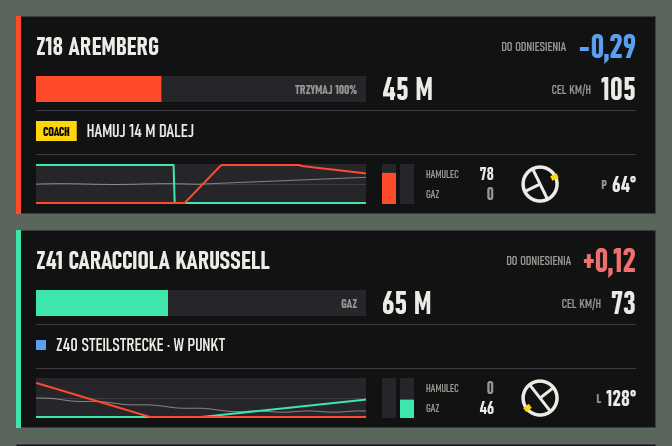
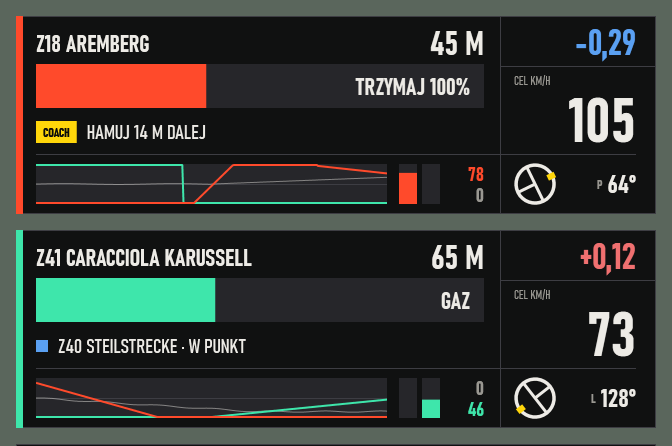
Overlay: a layout made for a glance
Same window size, used differently. The countdown bar is the main thing
(448 x 44 instead of 330 x 26) with the word in it at 24 pt; the time
against the reference and the target speed stand in a fixed column on
the right in the largest figures of the panel; metres, word, time and
speed sit next to each other, and nothing moves between corners. The
pedals and steering strip follows the same two columns.

diff --git a/plugin/src/OverlayPainter.cs b/plugin/src/OverlayPainter.cs
@@ -1,5 +1,12 @@
 // Draws the in-game overlay from a CoachState. Kept apart from the window so the same
 // drawing can be rendered to a picture by the preview tool. WPF, C# 5 syntax.
+//
+// The layout is made for a glance of a fraction of a second:
+//   - on the left the countdown bar, as wide and tall as the room allows; its colour and its
+//     length are read without looking straight at it, the word inside says what to do;
+//   - on the right a column that never moves: the time against the reference lap on top, the
+//     speed to carry through the corner under it, both in the largest figures on the panel;
+//   - everything stays in its place from corner to corner, so the eye learns where to land.
 using System;
 using System.Globalization;
 using System.Windows;
@@ -12,11 +19,15 @@ namespace SimCoach
         public const double Width = 640, Height = 138, InputsHeight = 60;
         /// <summary>The height of the overlay, with or without the inputs strip.</summary>
         public static double HeightFor(bool inputs) { return Height + (inputs ? InputsHeight : 0); }
-        private const double CapHeight = 0.71; // capitals of this typeface, as a share of the font size
 
-        private static readonly Brush Panel = Frozen(Color.FromArgb(232, 10, 10, 11));
+        private const double CapHeight = 0.71; // capitals of this typeface, as a share of the font size
+        // the two columns: the bar and its texts end at LeftEnd, the figures column starts after the divider
+        private const double Pad = 20, LeftEnd = 468, Divider = 484, RightEnd = Width - Pad;
+
+        private static readonly Brush Panel = Frozen(Color.FromArgb(236, 10, 10, 11));
         private static readonly Brush Line = Frozen(Color.FromRgb(0x3d, 0x3d, 0x43));
         private static readonly Brush Track = Frozen(Color.FromRgb(0x26, 0x26, 0x2a));
+        private static readonly Brush Idle = Frozen(Color.FromRgb(0x19, 0x19, 0x1c));
         private static readonly Brush Ink = Frozen(Color.FromRgb(0xed, 0xeb, 0xe6));
         private static readonly Brush Muted = Frozen(Color.FromRgb(0x9a, 0x98, 0x92));
         private static readonly Brush Yellow = Frozen(Color.FromRgb(0xff, 0xd6, 0x0a));
@@ -29,8 +40,23 @@ namespace SimCoach
         private static readonly FontFamily Family = new FontFamily("Bahnschrift, Segoe UI");
         private static readonly Typeface Regular = new Typeface(Family, FontStyles.Normal, FontWeights.Normal, FontStretches.Condensed);
         private static readonly Typeface Bold = new Typeface(Family, FontStyles.Normal, FontWeights.Bold, FontStretches.Condensed);
+        private static readonly Pen GasPen = FrozenPen(Color.FromRgb(0x3e, 0xe6, 0xab), 2);
+        private static readonly Pen BrakePen = FrozenPen(Color.FromRgb(0xff, 0x4a, 0x2b), 2);
+        private static readonly Pen SteerPen = FrozenPen(Color.FromArgb(120, 0xed, 0xeb, 0xe6), 1);
+        private static readonly Pen WheelPen = FrozenPen(Color.FromRgb(0xed, 0xeb, 0xe6), 3.5);
+        private static readonly Pen SpokePen = FrozenPen(Color.FromRgb(0xed, 0xeb, 0xe6), 3);
 
         private static Brush Frozen(Color c) { var b = new SolidColorBrush(c); b.Freeze(); return b; }
+
+        private static Pen FrozenPen(Color c, double width)
+        {
+            var p = new Pen(Frozen(c), width);
+            p.LineJoin = PenLineJoin.Round;
+            p.Freeze();
+            return p;
+        }
+
+        private static double Clamp(double v, double lo, double hi) { return v < lo ? lo : v > hi ? hi : v; }
 
         /// <summary>
         /// One line of text with the middle of its capitals on yMiddle (so it sits truly centred
@@ -63,57 +89,29 @@ namespace SimCoach
 
         private static void Coach(DrawingContext dc, CoachState st, double dip, double total)
         {
-            const double W = Width, H = Height, pad = 20;
-            if (st == null || !st.Active) { Put(dc, dip, "SIMCOACH · POZA TOREM Z PLANU", 16, Muted, false, pad, H / 2, 0, 0); return; }
+            const double H = Height;
+            if (st == null || !st.Active) { Put(dc, dip, "SIMCOACH · POZA TOREM Z PLANU", 18, Muted, false, Pad, H / 2, 0, 0); return; }
 
             bool flash = st.BrakeNow || st.GasNow || st.LiftNow;
             // one colour per thing to do: yellow braking point ahead, red braking, white lift, green throttle
             Brush doing = st.BrakeNow || st.Phase == 3 ? Brake : st.GasNow || st.Phase == 2 ? Gas : st.LiftNow || st.Phase == 4 ? Ink : st.Phase == 1 ? Yellow : null;
-            dc.DrawRectangle(doing ?? Line, null, new Rect(0, 0, 5, total));
-            // row 1: the corner, and the time against the reference lap
-            const double y1 = 30;
-            Put(dc, dip, st.Corner.Length > 0 ? st.Corner : "—", 26, Ink, true, pad, y1, 0, 380);
-            if (double.IsNaN(st.Delta)) Put(dc, dip, "BEZ POMIARU", 13, Muted, false, W - pad, y1, 1, 0);
-            else
-            {
-                double w = Put(dc, dip, CoachEngine.Signed(st.Delta, "0.00"), 34, Math.Abs(st.Delta) < 0.005 ? Ink : st.Delta < 0 ? Gain : Loss, true, W - pad, y1, 1, 0);
-                Put(dc, dip, "DO ODNIESIENIA", 13, Muted, false, W - pad - w - 12, y1, 1, 0);
-            }
-
-            // row 2: the way to the braking point, then to the throttle point, as a bar that
-            // runs out at the point. The word at its end says which of the two it is.
-            const double y2 = 73, barX = pad, barW = 330, barH = 26;
-            Rect bar = new Rect(barX, y2 - barH / 2, barW, barH);
-            dc.DrawRectangle(Track, null, bar);
+            dc.DrawRectangle(doing ?? Line, null, new Rect(0, 0, 7, total));
             bool counting = st.Phase != 0;
-            if (flash)
-            {
-                dc.DrawRectangle(doing, null, bar);
-                Put(dc, dip, st.BrakeNow ? "HAMUJ" : st.LiftNow ? "ODPUŚĆ GAZ" : "GAZ", 22, Black, true, barX + barW / 2, y2, 0.5, 0);
-            }
-            else if (counting)
-            {
-                Rect fill = new Rect(barX, bar.Y, Math.Max(2, barW * st.Progress), barH);
-                dc.DrawRectangle(doing, null, fill);
-                // the word sits on the dark track, and turns dark where the fill still covers it;
-                // with it, how hard to press: the plan's peak pedal pressure
-                string pressure = st.Pressure > 0 ? " " + Math.Round(st.Pressure).ToString(CultureInfo.InvariantCulture) + "%" : "";
-                string word = st.Phase == 1 ? "HAMULEC" + pressure : st.Phase == 3 ? "TRZYMAJ" + pressure : st.Phase == 4 ? "ODPUŚĆ GAZ" : "GAZ";
-                Put(dc, dip, word, 13, Muted, true, barX + barW - 9, y2, 1, 0);
-                dc.PushClip(new RectangleGeometry(fill));
-                Put(dc, dip, word, 13, Black, true, barX + barW - 9, y2, 1, 0);
-                dc.Pop();
-                // where the reference lap braked: the plan asks to hold on past this notch
-                if (!double.IsNaN(st.Mark))
-                {
-                    double mx = Math.Round(barX + barW * st.Mark);
-                    dc.DrawRectangle(st.Progress > st.Mark ? Black : Muted, null, new Rect(mx - 1, bar.Y, 2, barH));
-                    dc.DrawRectangle(Ink, null, new Rect(mx - 1, bar.Y - 5, 2, 4));
-                }
-            }
 
-            else if (st.Flat) Put(dc, dip, "PEŁNY GAZ", 13, Gas, true, barX + 10, y2, 0, 0); // nothing to count down to: this one is flat out
+            // ---- right: the figures, always in the same two cells ----
+            const double cut = 50; // where the column is split: time above, speed below
+            dc.DrawRectangle(Line, null, new Rect(Divider, 0, 1, H));
+            dc.DrawRectangle(Line, null, new Rect(Divider, cut, Width - Divider, 1));
+            if (double.IsNaN(st.Delta)) Put(dc, dip, "BEZ POMIARU", 13, Muted, false, RightEnd, cut / 2 + 1, 1, 0);
+            else Put(dc, dip, CoachEngine.Signed(st.Delta, "0.00"), 36, Math.Abs(st.Delta) < 0.005 ? Ink : st.Delta < 0 ? Gain : Loss, true, RightEnd, cut / 2 + 1, 1, 0);
+            Put(dc, dip, "CEL KM/H", 12, Muted, false, Divider + 14, cut + 15, 0, 0);
+            if (!double.IsNaN(st.TargetSpeed))
+                Put(dc, dip, Math.Round(st.TargetSpeed).ToString(CultureInfo.InvariantCulture), 62, Ink, true, RightEnd, cut + 54, 1, 0);
+            else Put(dc, dip, "—", 40, Line, true, RightEnd, cut + 54, 1, 0);
 
+            // ---- left, row 1: the corner, and how far the point being counted down to is ----
+            const double y1 = 27;
+            double metresW = 0;
             if (!flash && !double.IsNaN(st.ToCorner) && st.ToCorner > 0)
             {
                 // the last metres to the throttle point count one by one; a braking point comes up too fast for that
@@ -121,95 +119,104 @@ namespace SimCoach
                 string metres = st.ToCorner >= 1000
                     ? (st.ToCorner / 1000).ToString("0.0", CultureInfo.InvariantCulture).Replace('.', ',') + " KM"
                     : (Math.Round(st.ToCorner / unit) * unit).ToString(CultureInfo.InvariantCulture) + " M";
-                Put(dc, dip, metres, counting ? 32 : 22, counting ? Ink : Muted, counting, barX + barW + 16, y2, 0, 0);
+                metresW = Put(dc, dip, metres, counting ? 34 : 24, counting ? Ink : Muted, counting, LeftEnd, y1, 1, 0) + 14;
             }
-            if (!double.IsNaN(st.TargetSpeed))
-            {
-                double w = Put(dc, dip, Math.Round(st.TargetSpeed).ToString(CultureInfo.InvariantCulture), 32, Ink, true, W - pad, y2, 1, 0);
-                Put(dc, dip, "CEL KM/H", 13, Muted, false, W - pad - w - 10, y2, 1, 0);
-            }
+            Put(dc, dip, st.Corner.Length > 0 ? st.Corner : "—", 24, Ink, true, Pad, y1, 0, LeftEnd - Pad - metresW);
 
-            // row 3: the coach's note for this corner, or the verdict on the last one
-            const double y3 = 115;
-            dc.DrawRectangle(Line, null, new Rect(pad, 94, W - 2 * pad, 1));
+            // ---- left, row 2: the bar. It is full at the start of the countdown and runs out at
+            // the point; the word inside says which point it is, and how hard to brake. ----
+            const double barY = 48, barH = 44, y2 = barY + barH / 2, barW = LeftEnd - Pad;
+            Rect bar = new Rect(Pad, barY, barW, barH);
+            // (between corners the empty bar keeps its place, but steps back)
+            dc.DrawRectangle(flash || counting ? Track : Idle, null, bar);
+            if (flash)
+            {
+                dc.DrawRectangle(doing, null, bar);
+                Put(dc, dip, st.BrakeNow ? "HAMUJ" : st.LiftNow ? "ODPUŚĆ GAZ" : "GAZ", 32, Black, true, Pad + barW / 2, y2, 0.5, 0);
+            }
+            else if (counting)
+            {
+                Rect fill = new Rect(Pad, barY, Math.Max(3, barW * st.Progress), barH);
+                dc.DrawRectangle(doing, null, fill);
+                string pressure = st.Pressure > 0 ? " " + Math.Round(st.Pressure).ToString(CultureInfo.InvariantCulture) + "%" : "";
+                string word = st.Phase == 1 ? "HAMULEC" + pressure : st.Phase == 3 ? "TRZYMAJ" + pressure : st.Phase == 4 ? "ODPUŚĆ GAZ" : "GAZ";
+                // At the end the colour runs out towards, next to the metres above it and the
+                // figures beside it: light on the dark track, dark while the colour still covers it.
+                Put(dc, dip, word, 24, Ink, true, LeftEnd - 14, y2, 1, 0);
+                dc.PushClip(new RectangleGeometry(fill));
+                Put(dc, dip, word, 24, Black, true, LeftEnd - 14, y2, 1, 0);
+                dc.Pop();
+                // where the reference lap braked: the plan asks to hold on past this notch
+                if (!double.IsNaN(st.Mark))
+                {
+                    double mx = Math.Round(Pad + barW * st.Mark);
+                    dc.DrawRectangle(st.Progress > st.Mark ? Black : Muted, null, new Rect(mx - 1.5, barY, 3, barH));
+                    dc.DrawRectangle(Ink, null, new Rect(mx - 1.5, barY - 6, 3, 5));
+                }
+            }
+            else if (st.Flat) Put(dc, dip, "PEŁNY GAZ", 24, Gas, true, LeftEnd - 14, y2, 1, 0); // nothing to count down to: this one is flat out
+
+            // ---- left, row 3: the coach's note for this corner, or the verdict on the last one ----
+            const double y3 = 116;
             if (st.Message.Length == 0) return;
-            double x = pad;
+            double x = Pad;
             if (st.MessageKind == 1)
             {
                 var tag = new FormattedText("COACH", CultureInfo.InvariantCulture, FlowDirection.LeftToRight, Bold, 13, Black, dip);
-                dc.DrawRectangle(Yellow, null, new Rect(x, y3 - 10, tag.WidthIncludingTrailingWhitespace + 14, 20));
+                dc.DrawRectangle(Yellow, null, new Rect(x, y3 - 11, tag.WidthIncludingTrailingWhitespace + 14, 22));
                 Put(dc, dip, "COACH", 13, Black, true, x + 7, y3, 0, 0);
                 x += tag.WidthIncludingTrailingWhitespace + 24;
             }
             else if (st.MessageKind >= 2)
             {
-                dc.DrawRectangle(st.MessageKind == 2 ? Gain : Loss, null, new Rect(x, y3 - 5, 10, 10));
-                x += 20;
+                dc.DrawRectangle(st.MessageKind == 2 ? Gain : Loss, null, new Rect(x, y3 - 6, 12, 12));
+                x += 22;
             }
-            Put(dc, dip, st.Message.ToUpperInvariant(), 18, Ink, false, x, y3, 0, W - pad - x);
+            Put(dc, dip, st.Message.ToUpperInvariant(), 20, Ink, false, x, y3, 0, LeftEnd - x);
         }
 
         // The inputs strip: a trace of throttle, brake and steering over the last seconds (the
-        // newest at the right edge), the two pedals as bars with their percentages, and the
-        // steering wheel turned as far as the real one, with its angle.
+        // newest at the right edge), the two pedals as bars with their percentages, and, in the
+        // figures column, the steering wheel turned as far as the real one, with its angle.
         private static void Inputs(DrawingContext dc, CoachState st, double dip, InputTrace trace)
         {
-            const double W = Width, pad = 20, top = Height, mid = Height + InputsHeight / 2, gh = 40, gx = pad, gw = 330;
-            dc.DrawRectangle(Line, null, new Rect(pad, top, W - 2 * pad, 1));
+            const double top = Height, mid = Height + InputsHeight / 2, gh = 40, bw = 18, gap = 5, numbers = 44;
+            dc.DrawRectangle(Line, null, new Rect(Pad, top, Width - 2 * Pad, 1));
+            dc.DrawRectangle(Line, null, new Rect(Divider, top, 1, InputsHeight));
             double throttle = st == null ? 0 : Clamp(st.Throttle / 100, 0, 1), brake = st == null ? 0 : Clamp(st.Brake / 100, 0, 1), steer = st == null ? 0 : st.Steer;
 
+            // the pedals now, at the end of the trace they continue: bars, then the figures in the same colours
+            double bx = LeftEnd - numbers - 2 * bw - gap;
+            Rect graph = new Rect(Pad, mid - gh / 2, bx - 12 - Pad, gh);
+            dc.DrawRectangle(Track, null, new Rect(bx, graph.Y, bw, gh));
+            dc.DrawRectangle(Brake, null, new Rect(bx, graph.Bottom - gh * brake, bw, gh * brake));
+            dc.DrawRectangle(Track, null, new Rect(bx + bw + gap, graph.Y, bw, gh));
+            dc.DrawRectangle(Gas, null, new Rect(bx + bw + gap, graph.Bottom - gh * throttle, bw, gh * throttle));
+            Put(dc, dip, Math.Round(brake * 100).ToString(CultureInfo.InvariantCulture), 20, brake > 0.005 ? Brake : Muted, true, LeftEnd, mid - 10.5, 1, 0);
+            Put(dc, dip, Math.Round(throttle * 100).ToString(CultureInfo.InvariantCulture), 20, throttle > 0.005 ? Gas : Muted, true, LeftEnd, mid + 10.5, 1, 0);
+
             // the trace
-            Rect graph = new Rect(gx, mid - gh / 2, gw, gh);
             dc.DrawRectangle(Track, null, graph);
-            dc.DrawRectangle(Line, null, new Rect(gx, mid, gw, 1));
+            dc.DrawRectangle(Line, null, new Rect(graph.X, mid, graph.Width, 1));
             dc.PushClip(new RectangleGeometry(graph));
             Series(dc, trace, graph, 2, SteerPen);
             Series(dc, trace, graph, 0, GasPen);
             Series(dc, trace, graph, 1, BrakePen);
             dc.Pop();
 
-            // the pedals now
-            double bx = gx + gw + 16;
-            const double bw = 14;
-            dc.DrawRectangle(Track, null, new Rect(bx, graph.Y, bw, gh));
-            dc.DrawRectangle(Brake, null, new Rect(bx, graph.Bottom - gh * brake, bw, gh * brake));
-            dc.DrawRectangle(Track, null, new Rect(bx + bw + 4, graph.Y, bw, gh));
-            dc.DrawRectangle(Gas, null, new Rect(bx + bw + 4, graph.Bottom - gh * throttle, bw, gh * throttle));
-            double tx = bx + 2 * bw + 16, vx = tx + 68;
-            Put(dc, dip, "HAMULEC", 11, Muted, false, tx, mid - 10, 0, 0);
-            Put(dc, dip, Math.Round(brake * 100).ToString(CultureInfo.InvariantCulture), 18, brake > 0.005 ? Ink : Muted, true, vx, mid - 10, 1, 0);
-            Put(dc, dip, "GAZ", 11, Muted, false, tx, mid + 10, 0, 0);
-            Put(dc, dip, Math.Round(throttle * 100).ToString(CultureInfo.InvariantCulture), 18, throttle > 0.005 ? Ink : Muted, true, vx, mid + 10, 1, 0);
-
             // the steering wheel
-            const double r = 17;
-            var c = new Point(vx + 46, mid);
+            const double r = 19;
+            var c = new Point(Divider + 14 + r + 2, mid);
             dc.PushTransform(new RotateTransform(steer, c.X, c.Y));
             dc.DrawEllipse(null, WheelPen, c, r, r);
             dc.DrawLine(SpokePen, new Point(c.X - r, c.Y), new Point(c.X + r, c.Y));
             dc.DrawLine(SpokePen, new Point(c.X, c.Y), new Point(c.X, c.Y + r));
-            dc.DrawRectangle(Yellow, null, new Rect(c.X - 2.5, c.Y - r - 2.5, 5, 7)); // the stripe at twelve o'clock
+            dc.DrawRectangle(Yellow, null, new Rect(c.X - 3, c.Y - r - 3, 6, 8)); // the stripe at twelve o'clock
             dc.Pop();
             double deg = Math.Round(Math.Abs(steer));
-            double w = Put(dc, dip, deg.ToString(CultureInfo.InvariantCulture) + "°", 22, deg >= 1 ? Ink : Muted, true, W - pad, mid, 1, 0);
-            if (deg >= 1) Put(dc, dip, steer < 0 ? "L" : "P", 13, Muted, true, W - pad - w - 5, mid, 1, 0);
+            double w = Put(dc, dip, deg.ToString(CultureInfo.InvariantCulture) + "°", 26, deg >= 1 ? Ink : Muted, true, RightEnd, mid, 1, 0);
+            if (deg >= 1) Put(dc, dip, steer < 0 ? "L" : "P", 13, Muted, true, RightEnd - w - 5, mid, 1, 0);
         }
-
-        private static readonly Pen GasPen = FrozenPen(Color.FromRgb(0x3e, 0xe6, 0xab), 2);
-        private static readonly Pen BrakePen = FrozenPen(Color.FromRgb(0xff, 0x4a, 0x2b), 2);
-        private static readonly Pen SteerPen = FrozenPen(Color.FromArgb(120, 0xed, 0xeb, 0xe6), 1);
-        private static readonly Pen WheelPen = FrozenPen(Color.FromRgb(0xed, 0xeb, 0xe6), 3.5);
-        private static readonly Pen SpokePen = FrozenPen(Color.FromRgb(0xed, 0xeb, 0xe6), 3);
-
-        private static Pen FrozenPen(Color c, double width)
-        {
-            var p = new Pen(Frozen(c), width);
-            p.LineJoin = PenLineJoin.Round;
-            p.Freeze();
-            return p;
-        }
-
-        private static double Clamp(double v, double lo, double hi) { return v < lo ? lo : v > hi ? hi : v; }
 
         // One line of the trace. what: 0 throttle, 1 brake (0 at the bottom, 100 % at the top),
         // 2 steering (straight ahead on the middle line, half a turn either way fills the height).
